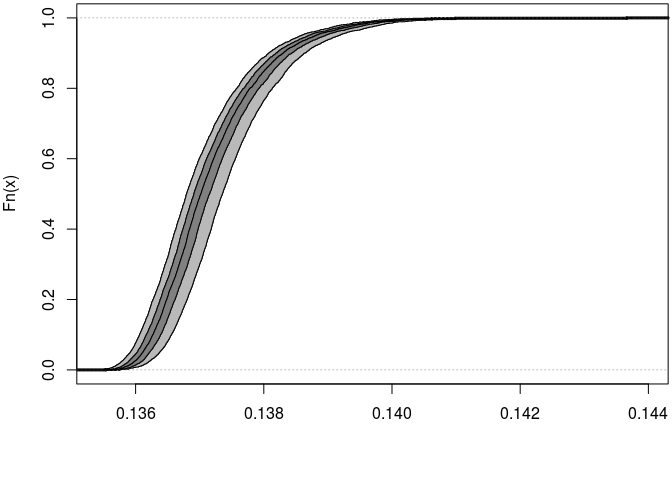
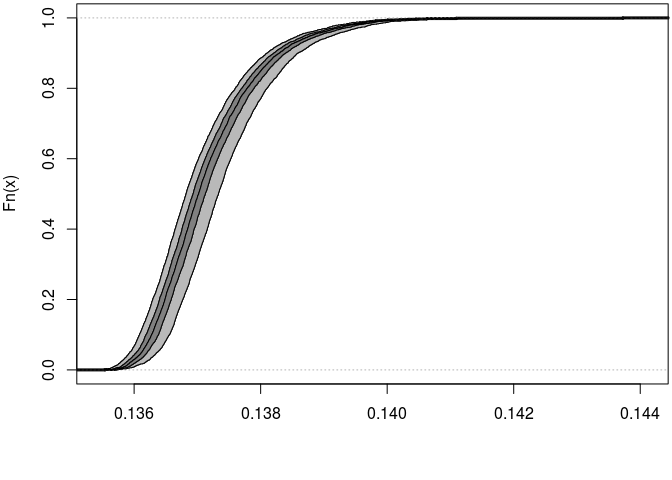
Relabled variables for consistency, adjusted comments. Added more explanation.

diff --git a/ex0618prob2d.md b/ex0618prob2d.md
@@ -110,7 +110,7 @@ matrix.
 Risk.mat <- matrix(as.numeric(NA), nrow = nsv, ncol = nsu)
 
 # Loop through the uncertainty dimension.
-for (i in 1:nsu) {
+for (j in 1:nsu) {
     # 1. Generate 5000 random samples from a log-normal distribution to estimate 
     #    exposure from consumption of drinking water (ml/day). Divide by 1000 
     #    mL/L to get consumption in liters/day.  Values for meanlog and sdlog 
@@ -128,15 +128,15 @@ for (i in 1:nsu) {
     
     # Loop through the variability dimension.
     # Compute 5000 daily simulations and store as a vector in a matrix.
-    Risk.mat[,i] <- sapply(1:nsv, function(j) 
+    Risk.mat[, j] <- sapply(1:nsv, function(i) 
         # Define a function to calculate esimated microbial exposure risk.
-        Risk.fcn(water.cons.L = water.cons.L[j],
-                 sw.duration = swim.duration[j],
+        Risk.fcn(water.cons.L = water.cons.L[i],
+                 sw.duration = swim.duration[i],
                  shellfish.vl = shellfish.viral.load,
                  dw.vl = dw.viral.load,
                  shellfish.cons.g = shellfish.cons.g,
                  sw.vl = sw.viral.load,
-                 sw.daily.IR = sw.d.IR[i],
+                 sw.daily.IR = sw.d.IR[j],
                  sw.frequency = sw.frequency))
 }
 ```
@@ -152,7 +152,7 @@ are used to establish a 95% credible interval (CI95).
 
 
 ```r
-mean.risk <- sapply(1:nsu, function(j) mean(Risk.mat[,j]))
+mean.risk <- sapply(1:nsu, function(j) mean(Risk.mat[, j]))
 quantile(mean.risk, probs = seq(0, 1, 0.025))[c("2.5%", "50%", "97.5%")]
 ```
 
@@ -328,7 +328,7 @@ expo.ev1
 
 ### Summarize results
 
-Print the evaluation results and plot the empirical cumulative distribution.
+Print a summary of the evaluation results (`expo.ev1`) and plot the empirical cumulative distribution function (ecdf).
 
 
 ```r
@@ -339,10 +339,10 @@ summary(expo.ev1)
 ```
 ##  :
 ##         mean       sd   Min  2.5%   25%   50%   75% 97.5%   Max  nsv Na's
-## median 0.137 0.000847 0.136 0.136 0.137 0.137 0.138 0.139 0.144 5000    0
-## mean   0.137 0.000849 0.136 0.136 0.137 0.137 0.138 0.139 0.144 5000    0
+## median 0.137 0.000845 0.136 0.136 0.137 0.137 0.138 0.139 0.144 5000    0
+## mean   0.137 0.000847 0.136 0.136 0.137 0.137 0.138 0.139 0.144 5000    0
 ## 2.5%   0.137 0.000841 0.135 0.136 0.136 0.137 0.137 0.139 0.143 5000    0
-## 97.5%  0.138 0.000867 0.136 0.136 0.137 0.137 0.138 0.140 0.144 5000    0
+## 97.5%  0.137 0.000861 0.136 0.136 0.137 0.137 0.138 0.140 0.144 5000    0
 ```
 
 ```r
@@ -378,21 +378,20 @@ library(mc2d)
 The `mcmodelcut()` function expects its input in three blocks:
 
 ```
-mcmodelcut(
+mcmodelcut({ 
+    # Block 1: Evaluate all of the 0, V and U mc node objects.
     { 
-        # Block 1: evaluated once before the first loop (step 1)
-        { 
-            # Evaluate all of the 0, V and U mc node objects.
-        } 
-        # Block 2: evaluated using nsu = 1 (step 2)
-        { 
-            # Evaluate all of the VU nodes. Last statement makes an mc object.
-        } 
-        # Block 3: repeated nsu times (step 3)
-        { 
-            # Build a list of statistics refering to the mc object.
-        } 
-    })
+        # This block is evaluated once before the first loop (step 1).
+    } 
+    # Block 2: Evaluate all of the VU nodes. Last statement makes an mc object.
+    { 
+        # This block is evaluated using nsu = 1 (step 2).
+    } 
+    # Block 3: Build a list of statistics refering to the mc object.
+    { 
+        # This block is repeated nsu times (step 3).
+    } 
+})
 ```
 
 ... where `nsu` is the number of simulations for uncertainty used in the 
@@ -440,12 +439,12 @@ expo.mcmcut <- mcmodelcut({
     # Block2: Evaluate all of the VU nodes. Last statement makes an mc object.
     {
         # Estimate the exposure using the V and U nodes to create a VU node.
-        expo.mc <- (shellfish.vl * shellfish.cons.g) + (dw.vl * dw.cons.L) + 
+        expo.mc2 <- (shellfish.vl * shellfish.cons.g) + (dw.vl * dw.cons.L) + 
             ((sw.vl * (sw.daily.IR * sw.duration * sw.frequency)) / 365 / 1000)
    
         # Build a mc model from all of the mcnode objects.
         expo.mod2 <- mc(shellfish.vl, shellfish.cons.g, dw.vl, dw.cons.L, 
-                        sw.vl, sw.daily.IR, sw.duration, sw.frequency, expo.mc)
+                        sw.vl, sw.daily.IR, sw.duration, sw.frequency, expo.mc2)
     }
 
     # Block 3: Build a list of statistics refering to the mc object.
@@ -477,13 +476,17 @@ expo.mcmcut <- mcmodelcut({
 
 ### Evaluate the model
 
-Evaluate the model with 5000 iterations in the variability dimension and 250 
-iterations in the uncertainty dimesion.
+Evaluate the model with 5000 iterations in the variability dimension and 
+250 iterations in the uncertainty dimesion. Save the evaluation results as 
+`expo.ev2`. 
+
+Since the `evalmccut()` function produces a lot of text output  
+that we do not want in our report, we capture the text output with the 
+`capture.output()` function and print a summary when finished.
 
 
 ```r
-# Capture the text output and print when finished to save space in the report.
-capture.output(x <- evalmccut(expo.mcmcut, seed = seed))
+capture.output(expo.ev2 <- evalmccut(expo.mcmcut, seed = seed))
 ```
 
 ```
@@ -503,7 +506,7 @@ Print the accumulated statistics with `summary()` and `plot()`.
 
 ```r
 # Print a summary and a plot for the mccut object.
-summary(x)
+summary(expo.ev2)
 ```
 
 ```
@@ -529,47 +532,48 @@ summary(x)
 ## 
 ## sw.daily.IR :
 ##       NoVar
-## 50%    57.8
-## mean   60.9
-## 2.5%    4.5
-## 97.5% 137.3
+## 50%    57.2
+## mean   61.9
+## 2.5%   10.0
+## 97.5% 131.3
 ## Nas     0.0
 ## 
 ## sw.duration :
 ##       mean    sd Min 2.5% 25% 50% 75% 97.5% Max  nsv Na's
-## NoUnc 2.11 0.726 0.5  0.5   2 2.6 2.6   2.6 2.6 5000    0
+## NoUnc  2.1 0.744 0.5  0.5   2 2.6 2.6   2.6 2.6 5000    0
 ## 
 ## sw.frequency :
 ##       mean sd Min 2.5% 25% 50% 75% 97.5% Max  nsv Na's
 ## NoUnc    7  0   7    7   7   7   7     7   7 5000    0
 ## 
-## expo.mc :
+## expo.mc2 :
 ##        mean       sd   Min  2.5%   25%   50%   75% 97.5%   Max  nsv Na's
-## 50%   0.137 0.000847 0.136 0.136 0.137 0.137 0.138 0.139 0.144 5000    0
-## mean  0.137 0.000849 0.136 0.136 0.137 0.137 0.138 0.139 0.144 5000    0
+## 50%   0.137 0.000845 0.136 0.136 0.137 0.137 0.138 0.139 0.144 5000    0
+## mean  0.137 0.000847 0.136 0.136 0.137 0.137 0.138 0.139 0.144 5000    0
 ## 2.5%  0.137 0.000841 0.135 0.136 0.136 0.137 0.137 0.139 0.143 5000    0
-## 97.5% 0.138 0.000867 0.136 0.136 0.137 0.137 0.138 0.140 0.144 5000    0
+## 97.5% 0.137 0.000861 0.136 0.136 0.137 0.137 0.138 0.140 0.144 5000    0
 ## Nas   0.000 0.000000 0.000 0.000 0.000 0.000 0.000 0.000 0.000    0    0
 ```
 
 ```r
-plot(x)
+plot(expo.ev2)
 ```
 
-![](./ex0618prob2d_files/figure-html/results-x-1.png) 
+![](./ex0618prob2d_files/figure-html/results-ev2-1.png) 
 
-Plot the empirical cumulative distribution for the estimated exposure. To match
-the `ecdf` plot made earlier, we will construct the plot elements manually.
+Plot the empirical cumulative distribution function (ecdf) for the estimated 
+exposure. To match the format of the `ecdf` plot made earlier, we will 
+construct the plot elements manually.
 
 
 ```r
-expo.x <- x$plot$expo.mc
+expo.x <- expo.ev2$plot$expo.mc2
 expo.l <- length(expo.x)
 expo.y <- 1:expo.l/expo.l
-plot(expo.x, expo.y, pch = 20, cex = 0.1, col = '#ADD8E604', 
-     main='ecdf(expo.mc)', ylab = 'Fn(x)', xlab = 'x')
+plot(expo.x, expo.y, pch = 20, cex = 0.1, col = '#ADD8E605', 
+     main='ecdf(expo.mc2)', ylab = 'Fn(x)', xlab = 'x')
 abline(h = 0, col = "gray", lty = 2, lwd = 2)
 abline(h = 1, col = "gray", lty = 2, lwd = 2)
 ```
 
-![](./ex0618prob2d_files/figure-html/results-expo-1.png) 
+![](./ex0618prob2d_files/figure-html/results-ev2-ecdf-plot-1.png) 
